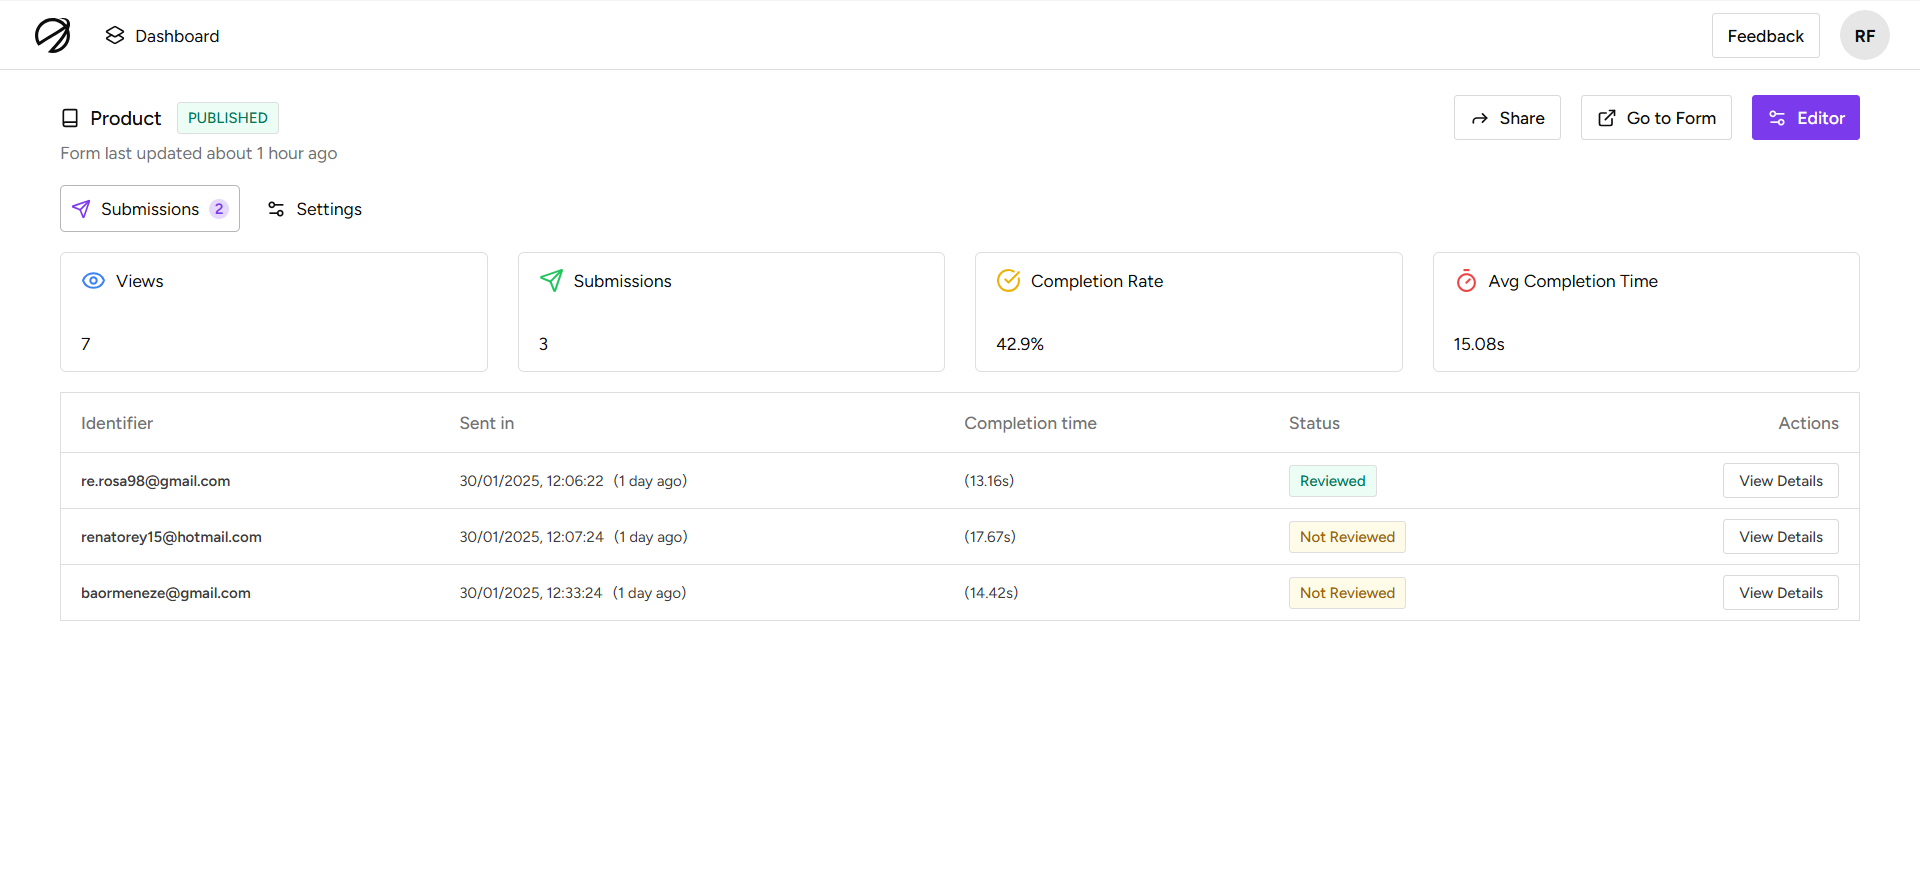
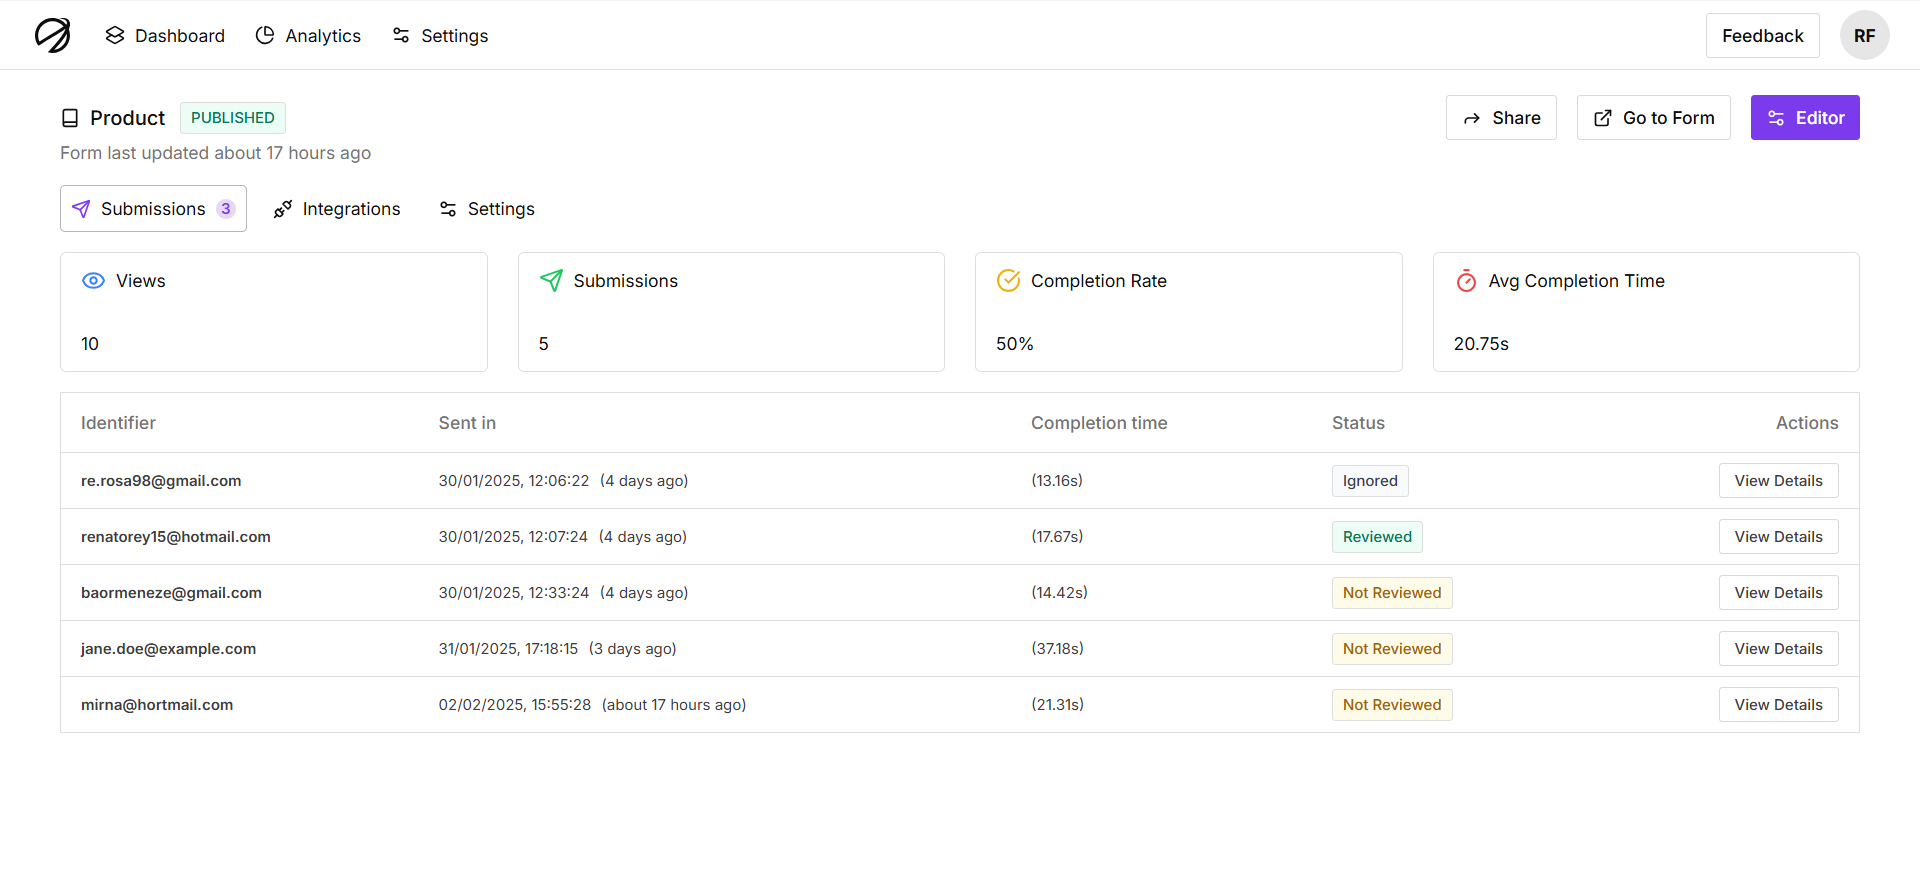
chore: fixing deign

diff --git a/components/private/form/form-integrations.tsx b/components/private/form/form-integrations.tsx
@@ -1,8 +1,15 @@
+import { MegaphoneIcon } from "lucide-react";
+
 const FormIntegrations = () => {
   return (
-    <div className="flex justify-center items-center w-full flex-1">
-      <div className="flex justify-center items-center h-full flex-1">
-        <span className="uppercase text-xs">Comming Soon</span>
+    <div className="flex justify-center items-center w-full flex-1 py-28">
+      <div className="flex flex-col justify-center items-center gap-3">
+        <div className="flex justify-center items-center p-2 rounded bg-primary/10">
+          <MegaphoneIcon className="w-5 h-5 text-primary" />
+        </div>
+        <span className="text-foreground/80 uppercase text-xs">
+          Comming Soon
+        </span>
       </div>
     </div>
   );

diff --git a/app/dashboard/analytics/page.tsx b/app/dashboard/analytics/page.tsx
@@ -1,4 +1,5 @@
 import { createClient } from "@/utils/supabase/server";
+import { ConstructionIcon } from "lucide-react";
 import { redirect } from "next/navigation";
 
 const Analytics = async () => {
@@ -10,7 +11,12 @@ const Analytics = async () => {
 
   return (
     <div className="flex flex-col h-full gap-4 overflow-y-auto pb-6 pt-3 px-3 sm:px-12 flex-1 mt-16">
-      Analytics page
+      <div className="flex justify-center items-center w-full h-full flex-1">
+        <div className="flex flex-col justify-center items-center gap-3">
+          <ConstructionIcon />
+          <span className="text-sm text-foreground/80">Under Development</span>
+        </div>
+      </div>
     </div>
   );
 };

diff --git a/components/private/core/nav.tsx b/components/private/core/nav.tsx
@@ -48,14 +48,14 @@ const links = [
     name: "Analytics",
     path: "/dashboard/analytics",
     icon: ChartPieIcon,
-    enabled: false,
+    enabled: true,
   },
   {
     id: 3,
     name: "Settings",
     path: "/dashboard/settings",
     icon: Settings2Icon,
-    enabled: false,
+    enabled: true,
   },
 ];
 const Nav = () => {

diff --git a/components/private/form/form-wrapper.tsx b/components/private/form/form-wrapper.tsx
@@ -36,7 +36,7 @@ const views = [
     label: "Integrations",
     icon: UnplugIcon,
     view: "integrations",
-    enabled: false,
+    enabled: true,
   },
   {
     label: "Settings",
